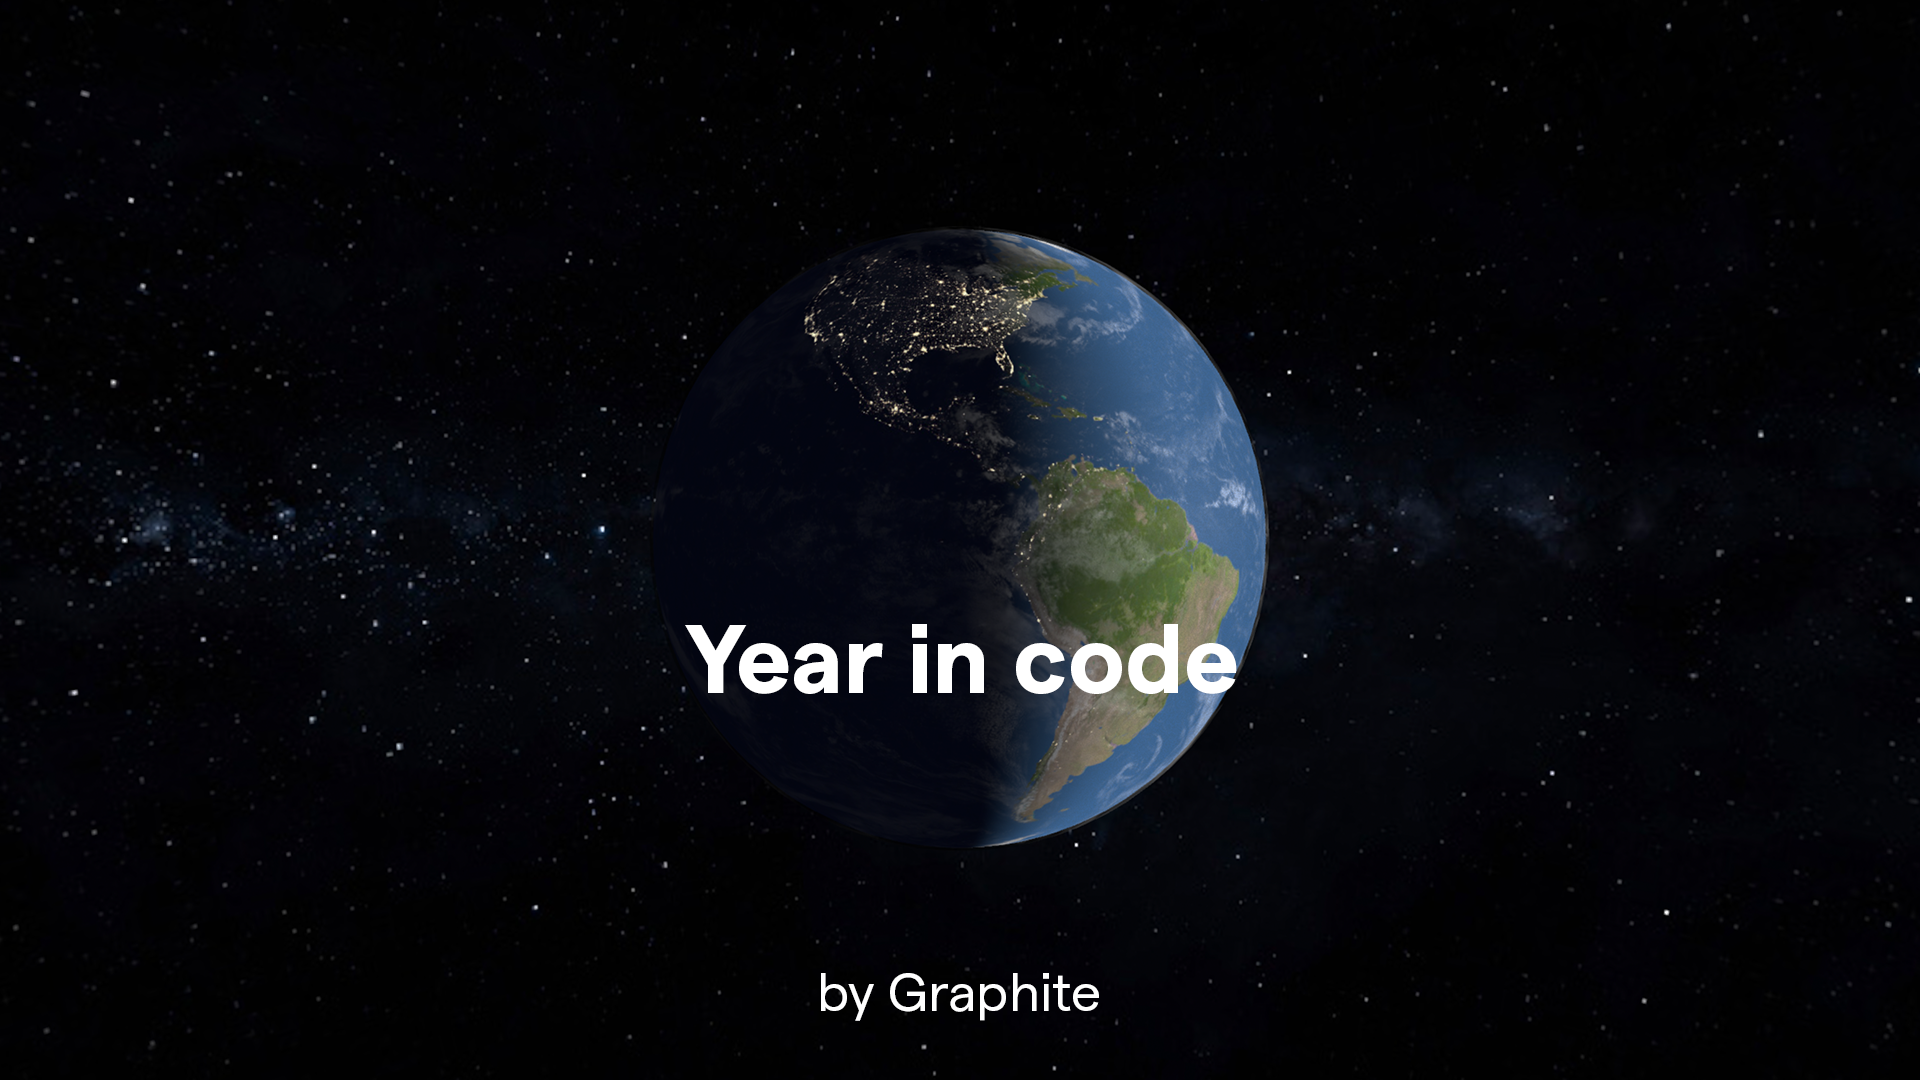
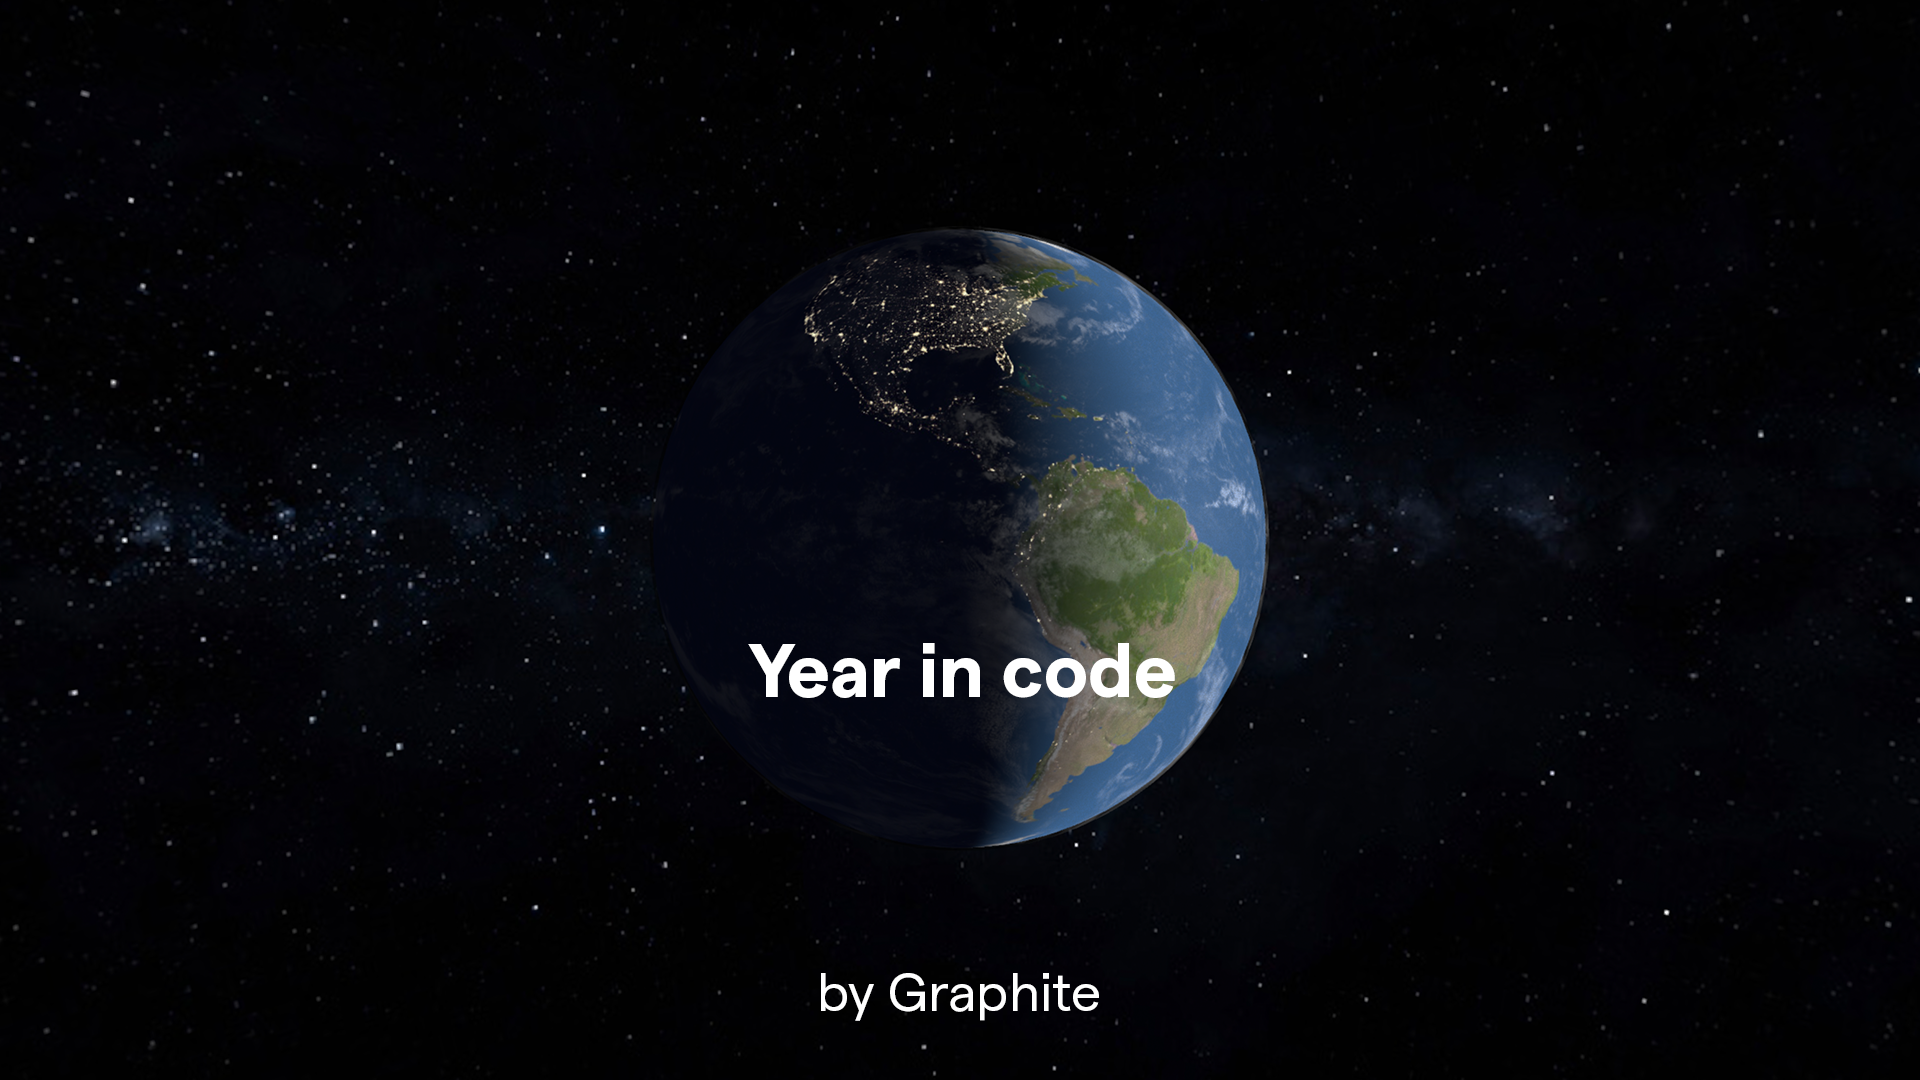
og-fix 2

Changed region(s): [[0.3438, 0.5806, 0.6562, 0.6417]]

diff --git a/app/og/route.tsx b/app/og/route.tsx
@@ -48,7 +48,7 @@ export async function GET(req: NextRequest) {
 						fontFamily: 'MatterSQ',
 						letterSpacing: '-0.05em',
 						fontStyle: 'normal',
-						color: 'white',
+						color: 'white !important',
 						lineHeight: '120px',
 						whiteSpace: 'pre-wrap'
 					}}>
